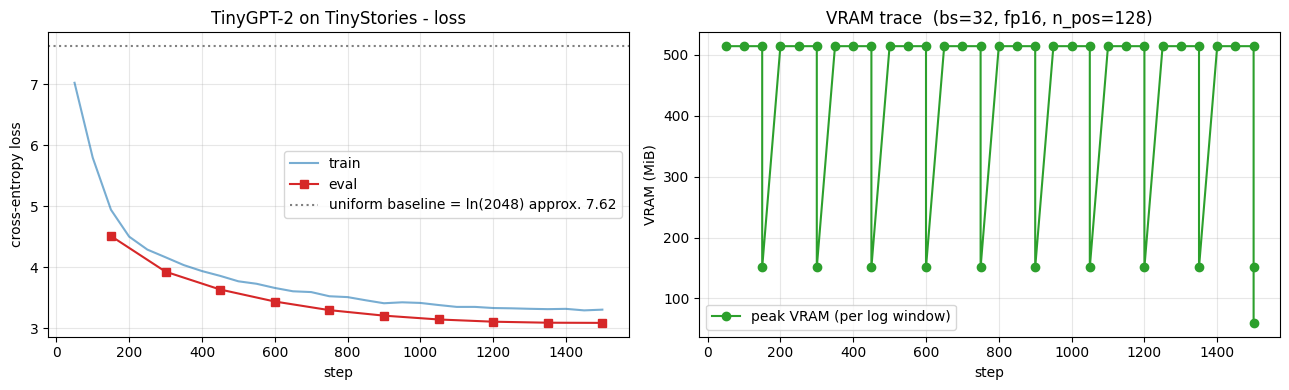
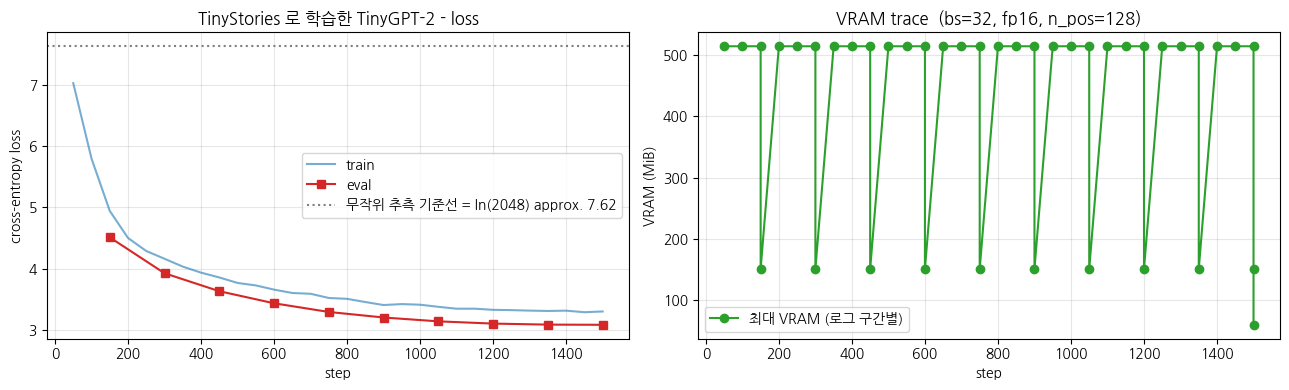
Ch 24 WikiDocs 변환 — executed 한글 plot 재생성
Claude-Session: https://claude.ai/code/session_01WacYaM89hZLnSLh4o6sjrA

diff --git a/pages/24-gpt_tinystories-practice.md b/pages/24-gpt_tinystories-practice.md
@@ -9,14 +9,14 @@
 **▶ 실행 결과**
 
 ```text
-   ━━━━━━━━━━━━━━━━━━━━━━━━━━━━━━━━━━━━━━━━ 11.2/11.2 MB 136.2 MB/s eta 0:00:00
-   ━━━━━━━━━━━━━━━━━━━━━━━━━━━━━━━━━━━━━━━━ 555.1/555.1 kB 48.6 MB/s eta 0:00:00
-   ━━━━━━━━━━━━━━━━━━━━━━━━━━━━━━━━━━━━━━━━ 389.2/389.2 kB 37.0 MB/s eta 0:00:00
+   ━━━━━━━━━━━━━━━━━━━━━━━━━━━━━━━━━━━━━━━━ 11.2/11.2 MB 102.1 MB/s eta 0:00:00
+   ━━━━━━━━━━━━━━━━━━━━━━━━━━━━━━━━━━━━━━━━ 555.1/555.1 kB 49.4 MB/s eta 0:00:00
+   ━━━━━━━━━━━━━━━━━━━━━━━━━━━━━━━━━━━━━━━━ 389.2/389.2 kB 38.0 MB/s eta 0:00:00
    ━━━━━━━━━━━━━━━━━━━━━━━━━━━━━━━━━━━━━━━━ 0.0/48.9 MB ? eta -:--:--
-   ━━━━━━━━━━━━━━━━━━━━━━━━━━━━━━━━━━━━╸━━━ 45.0/48.9 MB 198.9 MB/s eta 0:00:01
-   ━━━━━━━━━━━━━━━━━━━━━━━━━━━━━━━━━━━━━━━╸ 48.9/48.9 MB 166.8 MB/s eta 0:00:01
-   ━━━━━━━━━━━━━━━━━━━━━━━━━━━━━━━━━━━━━━━╸ 48.9/48.9 MB 166.8 MB/s eta 0:00:01
-   ━━━━━━━━━━━━━━━━━━━━━━━━━━━━━━━━━━━━━━━━ 48.9/48.9 MB 15.9 MB/s eta 0:00:00
+   ━━━━━━━━━━━━━━━━━━━━━━━━━━━━━━━━━╺━━━━━━ 40.4/48.9 MB 169.3 MB/s eta 0:00:01
+   ━━━━━━━━━━━━━━━━━━━━━━━━━━━━━━━━━━━━━━━╸ 48.9/48.9 MB 140.6 MB/s eta 0:00:01
+   ━━━━━━━━━━━━━━━━━━━━━━━━━━━━━━━━━━━━━━━╸ 48.9/48.9 MB 140.6 MB/s eta 0:00:01
+   ━━━━━━━━━━━━━━━━━━━━━━━━━━━━━━━━━━━━━━━━ 48.9/48.9 MB 16.9 MB/s eta 0:00:00
 ```
 
 ```python
@@ -58,6 +58,15 @@ random.seed(SEED)
 # fp16 은 CUDA 에서만 (MPS 는 미지원, CPU 는 의미 없음)
 USE_FP16 = (device.type == "cuda")
 print(f"use fp16   : {USE_FP16}")
+
+# matplotlib 한글 폰트 (Colab — NanumGothic). plot 의 한국어가 □ 로 깨지지 않게.
+import matplotlib.pyplot as plt, matplotlib.font_manager as fm, subprocess, os
+_fp = "/usr/share/fonts/truetype/nanum/NanumGothic.ttf"
+if not os.path.exists(_fp):
+    subprocess.run("apt-get -qq -y install fonts-nanum", shell=True)
+fm.fontManager.addfont(_fp)
+plt.rcParams["font.family"] = "NanumGothic"
+plt.rcParams["axes.unicode_minus"] = False
 ```
 
 **▶ 실행 결과**
@@ -68,8 +77,6 @@ VRAM total : 14.56 GiB
 torch      : 2.11.0+cu128
 use fp16   : True
 ```
-
-TinyStories 데이터셋에서 학습 30,000편, 검증 500편을 내려받습니다. 작은 어휘로 쓰인 짧은 동화 모음이라 작은 GPT 로도 문장 구조를 빠르게 익힐 수 있습니다. 샘플 한 편을 출력해 어떤 문체인지 미리 확인합니다.
 
 ```python
 from datasets import load_dataset
@@ -104,8 +111,6 @@ Lily went to her mom and said, "Mom, I found this needle. Can you share it with 
 
 To
 ```
-
-이번에는 사전학습된 토크나이저를 쓰지 않고, TinyStories 본문으로 byte-level BPE 토크나이저를 직접 학습합니다. 어휘 크기를 2048 로 작게 잡아 동화 코퍼스에 딱 맞춘 뒤, HF 표준 인터페이스로 감싸 bos/eos/pad 를 모두 `<|endoftext|>` 로 둡니다(GPT-2 컨벤션). 학습이 끝나면 예시 문장을 인코딩, 디코딩해 토큰이 어떻게 쪼개지는지 살펴봅니다.
 
 ```python
 from tokenizers import Tokenizer
@@ -154,7 +159,7 @@ print(f"eos_token  : {tokenizer.eos_token}  id={tokenizer.eos_token_id}")
 **▶ 실행 결과**
 
 ```text
-BPE training done: 10.6s, vocab=2048
+BPE training done: 10.3s, vocab=2048
 
 === encode/decode demo ===
 input      : Once upon a time, a little rabbit went to the forest.
@@ -164,8 +169,6 @@ decode     : Once upon a time, a little rabbit went to the forest.
 vocab_size : 2048
 eos_token  : <|endoftext|>  id=0
 ```
-
-각 story 를 토큰화한 뒤 끝에 EOS 를 붙여 이야기 경계를 표시하고, 모든 토큰을 한 줄로 이어붙여 `BLOCK_SIZE=128` 단위로 잘라냅니다. 이렇게 고정 길이 블록으로 묶으면 padding 낭비 없이 CausalLM 학습에 바로 쓸 수 있습니다. 마지막에 블록 개수와 대략의 학습 토큰 수를 출력해 데이터 규모를 확인합니다.
 
 ```python
 BLOCK_SIZE = 128
@@ -220,8 +223,6 @@ first chunk decode (first 200 chars):
 One day, a little girl named Lily found a needle in her room. She knew it was difficult to play with it because it was sharp. Lily wanted to …(뒤 60자 생략)
 ```
 
-`mlm=False` 데이터 콜레이터가 어떤 labels 를 만드는지 미리 들여다봅니다. CausalLM 은 input_ids 를 그대로 복제해 labels 로 쓰기 때문에, MLM 처럼 대부분을 -100 으로 가리지 않고 거의 모든 자리가 다음 토큰 예측의 학습 신호가 됩니다. 두 방식의 학습 신호 비율을 직접 세어 비교하는 부분을 눈여겨보세요.
-
 ```python
 from transformers import DataCollatorForLanguageModeling
 
@@ -270,12 +271,6 @@ total positions      : 256
 (input_ids == labels) positions: 255/256  - clone as-is
 ```
 
-**결과 해석**
-
-MLM 은 가린 15% 자리에서만 학습 신호가 나오지만, CausalLM 은 거의 모든 자리(99.61%)가 다음 토큰 예측 대상이 됩니다. 같은 토큰 수로도 GPT 사전학습이 한 스텝당 5-6배 더 촘촘한 학습 신호를 얻는 셈입니다.
-
-이제 학습할 작은 GPT-2 를 직접 정의합니다. 임베딩 256, 레이어 4, 헤드 4 의 약 3M 파라미터짜리 디코더로, 본체는 causal attention 을 쓰는 `GPT2Model` 이고 head 는 어휘 크기로 사영하는 Linear 입니다. 파라미터 수와 weight tying 여부를 출력해 BERT 의 양방향 인코더와 어떻게 다른지 확인합니다.
-
 ```python
 from transformers import GPT2Config, GPT2LMHeadModel
 
@@ -313,8 +308,6 @@ model: GPT2LMHeadModel
   - body : GPT2Model  (Decoder, causal attention)
   - head : Linear(in=256, out=2048)
 ```
-
-학습을 시작하기 전에, 아직 무작위 가중치인 모델로 먼저 텍스트를 생성해 봅니다. `generate_text` 헬퍼로 같은 프롬프트 3개를 샘플링하고, 그 결과를 `before_outputs` 에 저장해 나중에 학습 후 출력과 나란히 비교합니다. 학습 전 출발점이 어떤 모습인지 눈으로 확인하는 단계입니다.
 
 ```python
 PROMPTS = [
@@ -365,12 +358,6 @@ The little girlakak everyush Sarahgged:un't different different# gl keepner Grai
 [prompt] A big dog
 A big dog cle music hisftere learnedpe fam pullve bat batinin paper paper teacherkes cr wear soup yes curi tw7 colors wall runlf This Sam bb …(뒤 113자 생략)
 ```
-
-**결과 해석**
-
-학습 전 무작위 가중치 모델은 단어를 띄엄띄엄 뱉을 뿐 문장이 되지 못하고, 같은 토큰을 반복하거나 깨진 글자(��)까지 섞입니다. 다음 토큰 분포가 아직 학습되지 않았을 때의 출발점을 그대로 보여 줍니다.
-
-이제 `Trainer` 로 본격적으로 사전학습을 돌립니다. T4 30분 제약에 맞춰 1500 스텝, batch_size 32, cosine 스케줄, `fp16=True` 로 설정하고, 스텝별 peak VRAM 을 기록하는 콜백도 함께 답니다. 학습이 끝나면 소요 시간과 train_loss 를 무작위 baseline(ln vocab)과 비교해 얼마나 줄었는지 확인합니다.
 
 ```python
 from transformers import (DataCollatorForLanguageModeling, Trainer,
@@ -456,12 +443,6 @@ random baseline (ln vocab): 7.6246
 final peak    : 60 MiB
 ```
 
-**결과 해석**
-
-train_loss 3.83 은 무작위 모델의 균일 분포 baseline(ln 2048 ≈ 7.62)의 절반 수준으로, 1500 스텝 약 1분 학습만으로도 다음 토큰을 상당히 좁혀 예측하게 됐음을 뜻합니다. peak VRAM 60 MiB 로 T4 의 16GB 에 한참 못 미쳐 여유가 큽니다.
-
-학습 로그를 꺼내 loss 곡선과 VRAM 추이를 두 패널로 그립니다. 왼쪽에는 train, eval loss 를 균일 baseline 점선과 함께 두어 얼마나 아래로 내려갔는지 보고, 오른쪽에는 스텝별 peak VRAM 을 그려 메모리가 평탄하게 유지됐는지 확인합니다.
-
 ```python
 # loss curve + VRAM trace
 log = trainer.state.log_history
@@ -477,20 +458,20 @@ if eval_pts:
     ax1.plot([s for s, _ in eval_pts], [l for _, l in eval_pts], "s-",
              color="tab:red", label="eval")
 ax1.axhline(math.log(tokenizer.vocab_size), ls=":", color="gray",
-            label=f"uniform baseline = ln({tokenizer.vocab_size}) approx. {math.log(tokenizer.vocab_size):.2f}")
+            label=f"무작위 추측 기준선 = ln({tokenizer.vocab_size}) approx. {math.log(tokenizer.vocab_size):.2f}")
 ax1.set_xlabel("step"); ax1.set_ylabel("cross-entropy loss")
-ax1.set_title("TinyGPT-2 on TinyStories - loss")
+ax1.set_title("TinyStories 로 학습한 TinyGPT-2 - loss")
 ax1.grid(True, alpha=0.3); ax1.legend()
 
 # VRAM (CUDA 만)
 if vram_cb.steps:
     ax2.plot(vram_cb.steps, vram_cb.peak_MiB, "o-", color="tab:green",
-             label="peak VRAM (per log window)")
+             label="최대 VRAM (로그 구간별)")
     ax2.set_title(f"VRAM trace  (bs=32, fp16, n_pos={BLOCK_SIZE})")
 else:
-    ax2.text(0.5, 0.5, "VRAM trace available on CUDA only",
+    ax2.text(0.5, 0.5, "VRAM 추적은 CUDA 에서만 가능",
              ha="center", va="center", transform=ax2.transAxes)
-    ax2.set_title("VRAM trace - CUDA only")
+    ax2.set_title("VRAM 추적 - CUDA 전용")
 ax2.set_xlabel("step"); ax2.set_ylabel("VRAM (MiB)")
 ax2.grid(True, alpha=0.3); ax2.legend()
 
@@ -500,12 +481,6 @@ plt.tight_layout(); plt.show()
 **▶ 실행 결과**
 
 ![output](../assets/24-gpt_tinystories-out1.png)
-
-**결과 해석**
-
-train, eval loss 모두 균일 baseline(점선) 아래로 빠르게 떨어진 뒤 완만해지고, 둘이 가까이 붙어 있어 과적합 없이 학습이 진행됐습니다. 오른쪽 VRAM 곡선은 스텝 내내 평탄해 메모리 누수 없이 안정적으로 돌았음을 보여 줍니다.
-
-학습이 끝난 같은 모델로, 학습 전과 동일한 프롬프트, 동일한 seed 로 다시 텍스트를 생성합니다. 결과를 `after_outputs` 에 담아 학습 전후가 공정하게 비교되도록 합니다. 1분 남짓 학습만으로 출력이 동화체 문장으로 바뀌었는지 살펴보세요.
 
 ```python
 torch.manual_seed(SEED)
@@ -540,12 +515,6 @@ A big dog, but they could go in the park. They ran away and the truck. The bird 
 
 "It's okay, it is not very curious. He is not
 ```
-
-**결과 해석**
-
-같은 무작위 모델이 1분 학습 뒤에는 "there was a girl named Lily" 처럼 TinyStories 의 동화체로 문법에 맞는 영어 문장을 이어 갑니다. 짧은 학습이라 "She thanked the garden" 같은 의미상 어색한 곳이 남지만, 다음 토큰 예측만으로 문장 구조를 익혔다는 점이 분명히 드러납니다.
-
-같은 프롬프트의 학습 전(BEFORE)과 학습 후(AFTER) 출력을 한 줄씩 나란히 찍어 직접 대조합니다. 프롬프트 부분을 잘라내고 이어진 생성 텍스트만 비교하면, 사전학습이 본체에 새긴 다음 토큰 분포의 변화가 한눈에 들어옵니다.
 
 ```python
 # before / after 나란히 - 사전학습이 본체에 새긴 next-token 분포의 직접적 증거
@@ -587,8 +556,6 @@ AFTER   : , but they could go in the park. They ran away and the truck. The bird
 
 "It's okay, it is not very curious. He is not
 ```
-
-비교 기준으로, OpenAI 가 WebText 로 사전학습한 진짜 gpt2(124M)를 내려받아 같은 프롬프트로 생성해 봅니다. 우리 3M 모델과 어휘 크기, 파라미터 수가 어떻게 다른지 출력하고, 생성 결과는 `ref_outputs` 에 모읍니다. 다 쓰고 나면 VRAM 을 비워 다음 셀에 부담을 주지 않습니다.
 
 ```python
 from transformers import AutoTokenizer, AutoModelForCausalLM
@@ -643,8 +610,6 @@ In the long run, we find that people who have an allergy to animals are less lik
 But these people are less likely to have
 ```
 
-마지막으로 세 출력을 한 자리에 모아 비교합니다. 무작위 초기 모델(BEFORE), TinyStories 로 학습한 우리 3M 모델(OURS), WebText 로 학습한 gpt2 124M(REF)을 같은 프롬프트로 줄 맞춰 보면, 모델 크기뿐 아니라 사전학습 코퍼스가 생성 스타일을 좌우한다는 점이 또렷이 드러납니다.
-
 ```python
 # 3-way 비교 - BEFORE (random) / OURS (3M, TinyStories) / REF (gpt2 124M, WebText)
 print("=" * 78)
@@ -693,7 +658,3 @@ OURS   : , but they could go in the park. They ran away and the truck. The bird 
 "It's okay, it is not
 ...
 ```
-
-**결과 해석**
-
-3M 짜리 우리 모델은 동화 어휘 안에서 매끄럽게 흐르고, 124M gpt2 는 WebText 로 학습돼 어휘는 풍부하지만 동화 프롬프트에도 뉴스, 에세이 톤으로 흘러갑니다. 모델 크기뿐 아니라 사전학습 코퍼스가 생성 스타일을 결정한다는 점이 같은 프롬프트 비교에서 또렷이 보입니다.

diff --git a/TOC.md b/TOC.md
@@ -91,8 +91,8 @@
   * [23-1. 실습](pages/23-ko_bert_classify-practice.md)
   * [23-2. 정리와 FAQ](pages/23-ko_bert_classify-wrapup.md)
 * [24. 작은 GPT 사전학습 (TinyStories Causal LM)](pages/24-gpt_tinystories.md)
-  * [24-1. 실습: 작은 GPT 사전학습과 생성](pages/24-gpt_tinystories-practice.md)
-  * [24-2. 변형 - sampling hyperparam 비교](pages/24-gpt_tinystories-variation.md)
+  * [24-1. 실습](pages/24-gpt_tinystories-practice.md)
+  * [24-2. 변형: sampling hyperparam 비교](pages/24-gpt_tinystories-variation.md)
   * [24-3. 정리와 FAQ](pages/24-gpt_tinystories-wrapup.md)
 * [25. GPT-2 계속 사전학습 (Continual Pretraining)](pages/25-gpt2_continual_pretrain.md)
   * [25-1. 실습: gpt2 계속 사전학습](pages/25-gpt2_continual_pretrain-practice.md)

diff --git a/pages/24-gpt_tinystories-variation.md b/pages/24-gpt_tinystories-variation.md
@@ -1,4 +1,4 @@
-같은 prompt 에 `temperature / top_k / top_p` 만 바꿔 generation 스타일 변화 관찰. *학습된 본체는 그대로* - 변하는 건 *sampling 분포* 뿐. 보수적, 균형, nucleus, 다양 네 가지 설정을 차례로 돌리되, 매번 같은 seed 로 고정해 sampling 파라미터의 효과만 분리해 봅니다. 설정이 풀릴수록 문장이 다양해지지만 일관성은 떨어지는 흐름을 눈여겨보세요.
+같은 prompt 에 `temperature / top_k / top_p` 만 바꿔 generation 스타일 변화 관찰. *학습된 본체는 그대로* - 변하는 건 *sampling 분포* 뿐.
 
 ```python
 prompt = "Once upon a time, a little rabbit"
